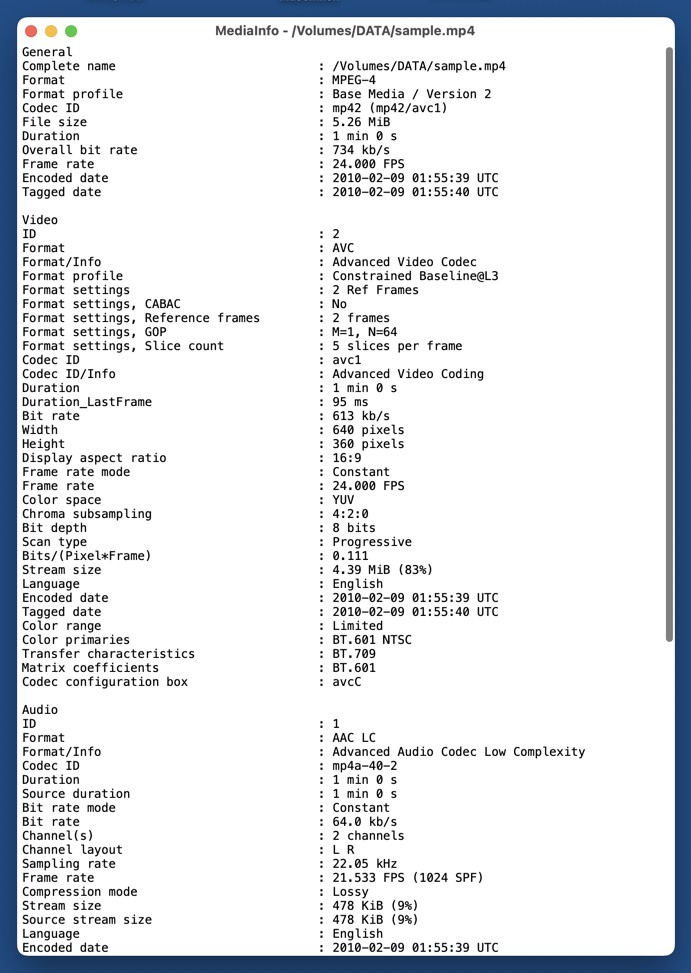
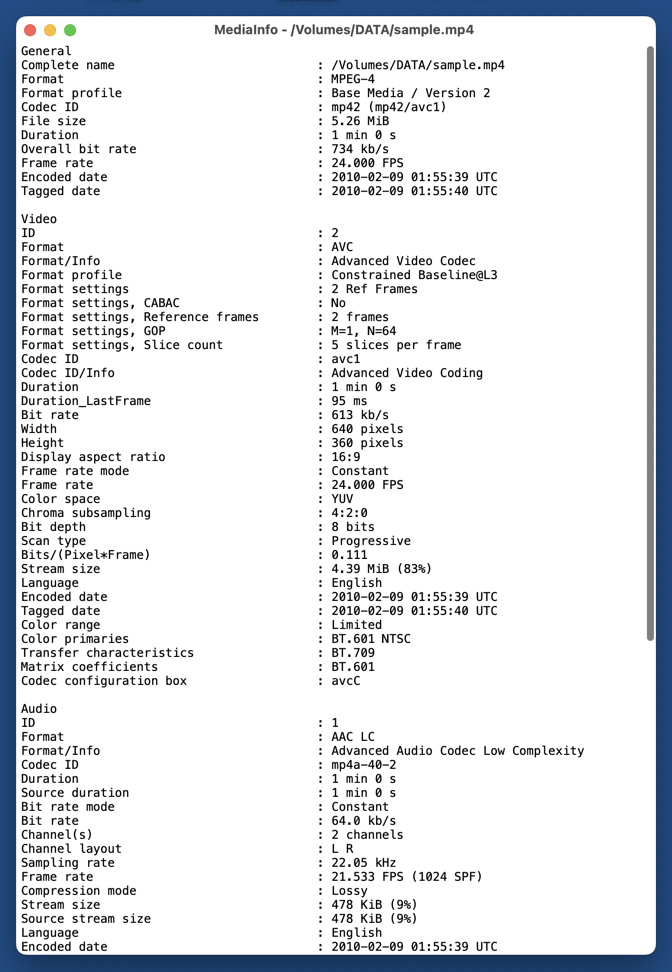
added dark screenshot

Changed region(s): [[0.0312, 0.0, 0.375, 0.9877], [0.3125, 0.0, 0.75, 0.7099], [0.4688, 0.7407, 0.8438, 0.9877]]

diff --git a/README.md b/README.md
@@ -7,5 +7,8 @@ Implemented in 75 lines of Python code.
 
 ## Screenshots
 
-*MediaInfo GUI in macOS 13*  
-![MediaInfo GUI in macOS 13](screenshots/mediainfo_macos13.jpg)
+*MediaInfo GUI in macOS 13 (light)*  
+![MediaInfo GUI in macOS 13 (light)](screenshots/mediainfo_macos13.jpg)
+
+*MediaInfo GUI in macOS 13 (dark)*  
+![MediaInfo GUI in macOS 13 (dark)](screenshots/mediainfo_macos13_dark.jpg)
